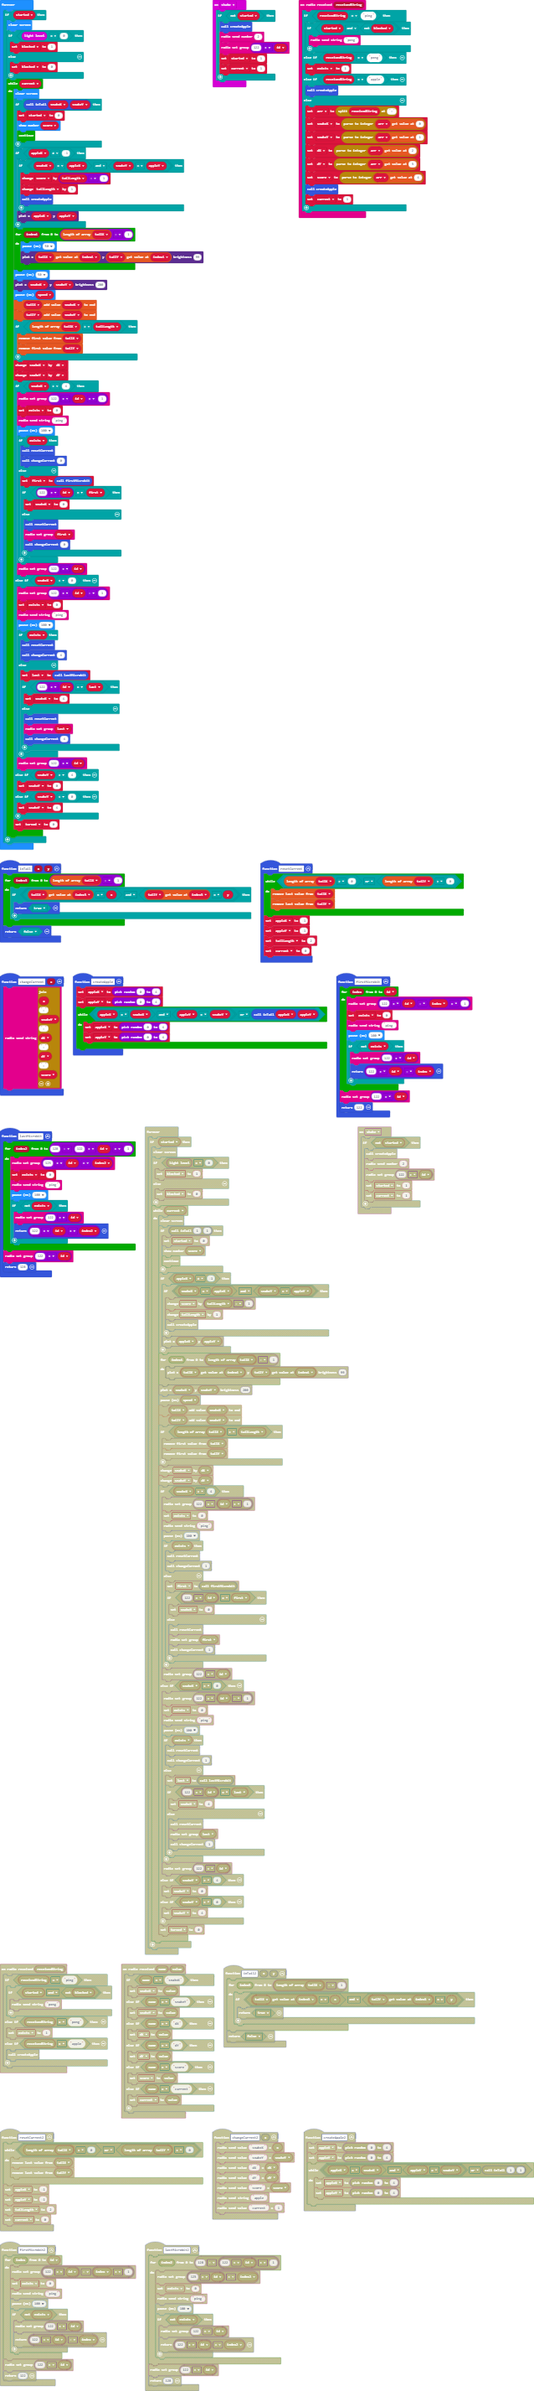
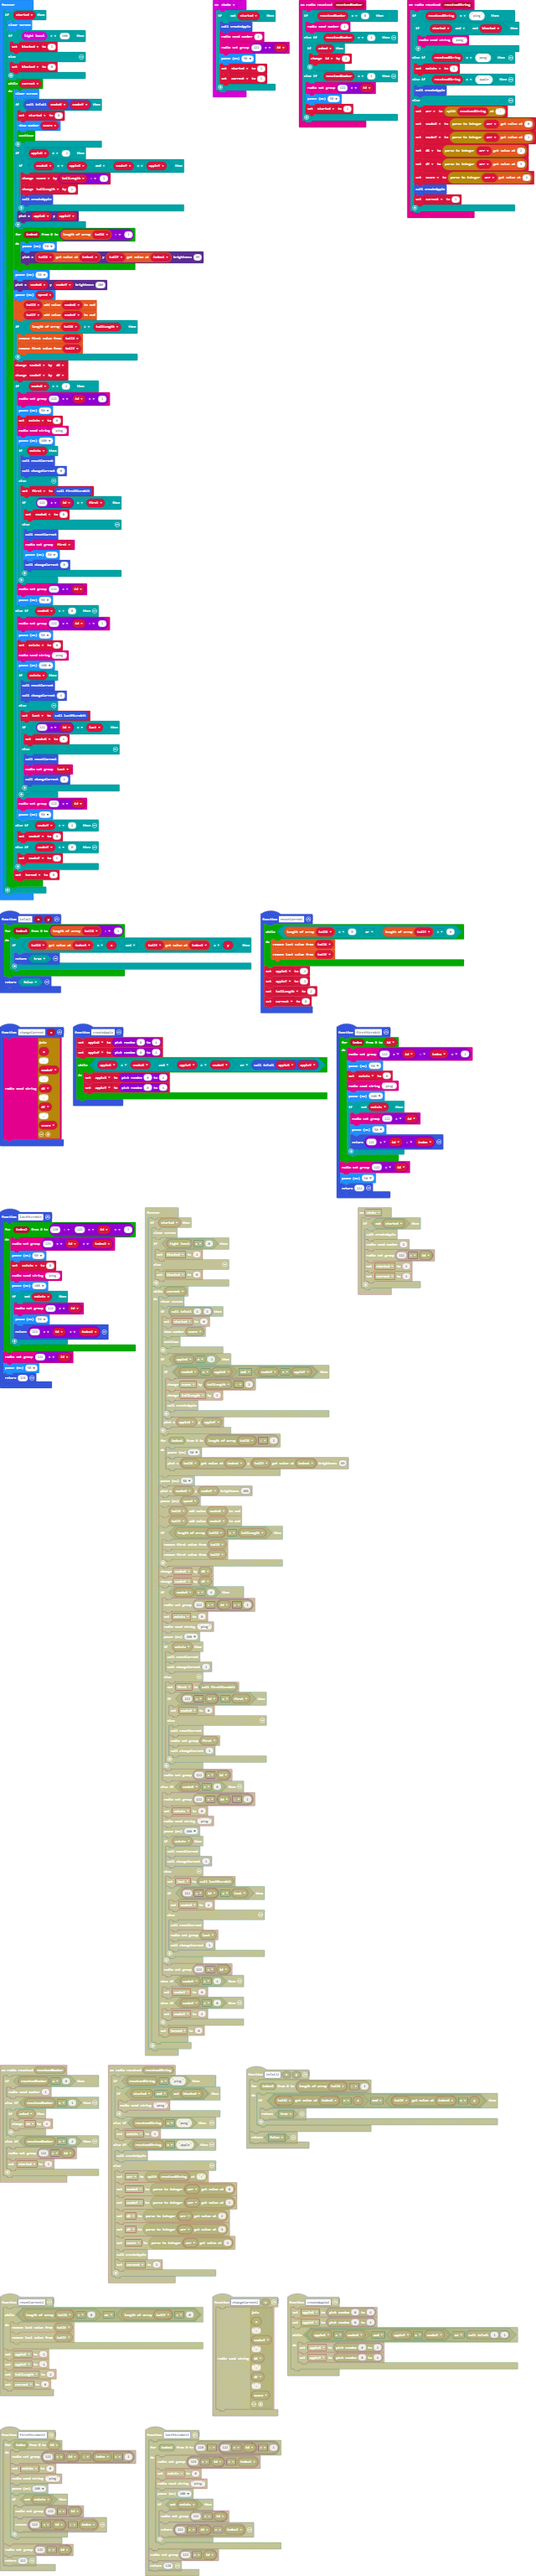
> 200

Changed region(s): [[0.0, 0.0, 1.0, 0.9982], [0.3871, 0.0, 1.0, 0.0936]]

diff --git a/main.ts b/main.ts
@@ -186,7 +186,7 @@ dY = 0
 basic.forever(function () {
     if (started) {
         basic.clearScreen()
-        if (input.lightLevel() == 0) {
+        if (input.lightLevel() > 200) {
             blocked = 1
         } else {
             blocked = 0
